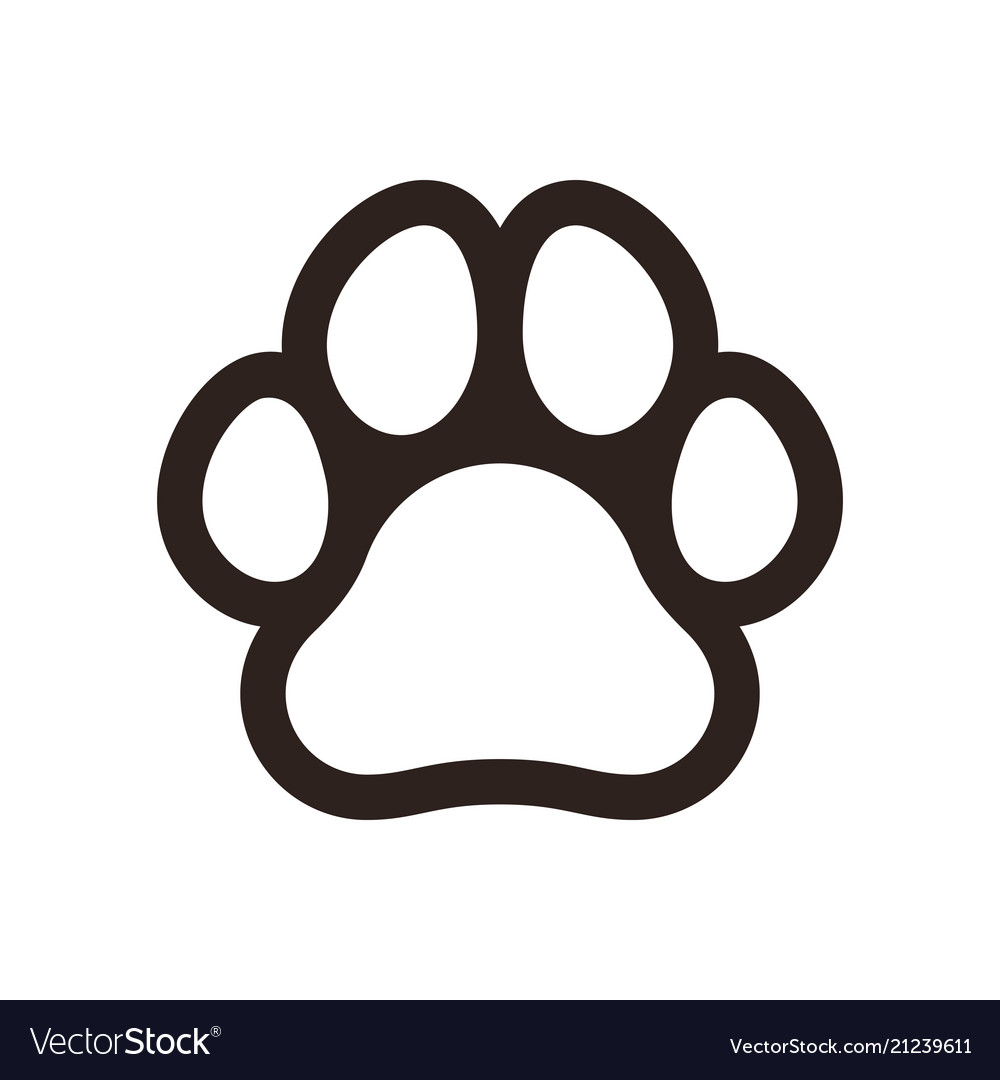
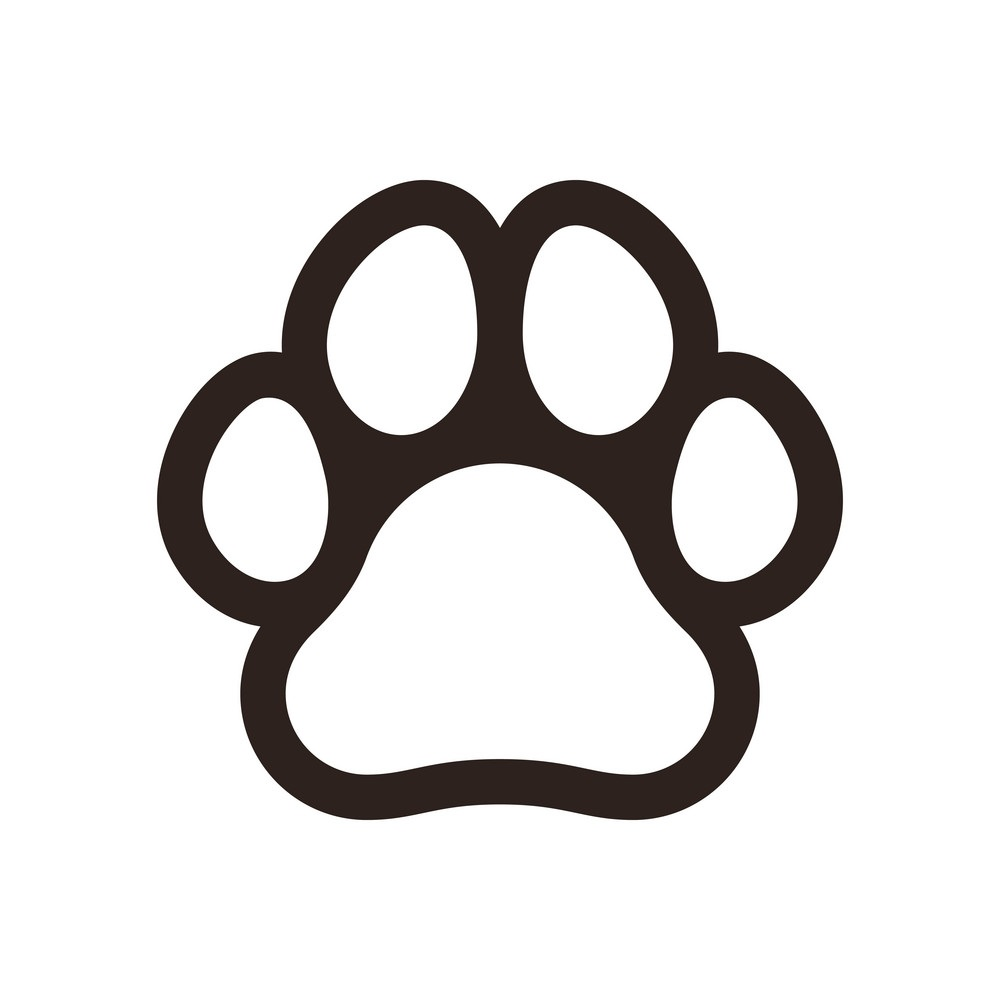
Update README file

Changed region(s): [[0.1552, 0.1555, 0.8689, 0.8395], [0.0, 0.9017, 1.0, 1.0], [0.4655, 0.2487, 0.5275, 0.3731]]

diff --git a/README.md b/README.md
@@ -1,6 +1,6 @@
 <div align="center">
   <h1>CozyPetsHotel</h1>
-  <img src="https://github.com/MileneAngelova/CozyPetsHotel/blob/7388fdb828e311c2cfc85f72fcb74409215f084c/src/main/resources/static/images/logo.png" alt="PetsHotel's logo" width="40%" style="background-color: darkgoldenrod">
+  <img src="https://github.com/MileneAngelova/CozyPetsHotel/blob/edbbb947f2f95262f79c8a24a2b6faa987ab4f43/src/main/resources/static/images/paw.jpg" alt="PetsHotel's logo" width="40%" style="background-color: darkgoldenrod">
   <p>Welcome to Cozy Pets Hotel!</p>
 </div>
 
@@ -75,3 +75,17 @@ Here are some screenshots of the Dam Platform in action:
 - **Admin Page**
   ![Admin Page - All Bookings](./src/main/resources/static/images/screenshots/Admin-Users.png)
 
+## Getting Started
+
+To get started with the Cozy Pets Hotel Application, follow these steps:
+
+1. **Clone the Repository**
+2. **Navigate to the Project Directory**
+3. **Install Dependencies**
+   Make sure you have the necessary dependencies installed.
+4. **Replace the placeholders**
+   To start the project, please replace the placeholders in your configuration file with your actual credentials.
+5. **Run the Application**
+   Follow the instructions for running the application locally or deploy it to your server.
+6. **Access the Platform**
+   Open your web browser and navigate to start using the CozyPetsHotel.
